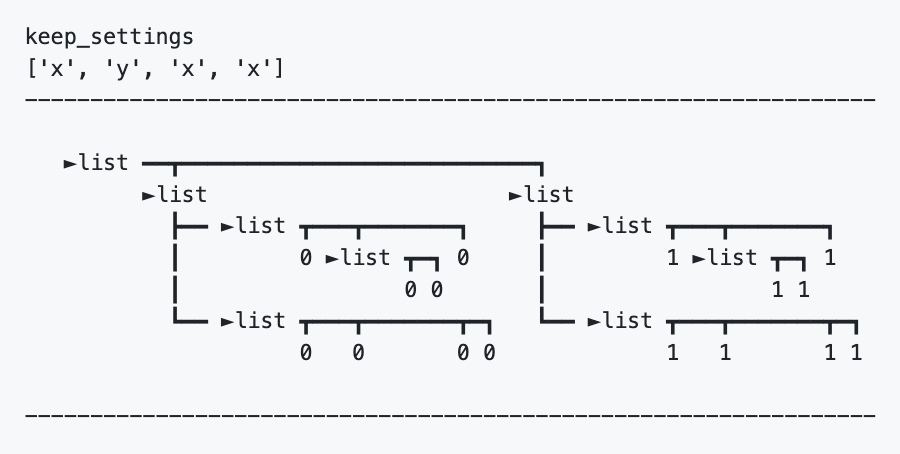
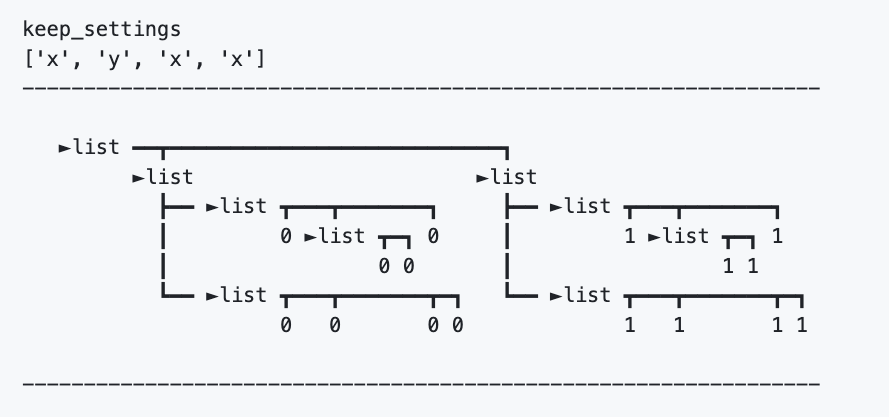
写真に置き換え

diff --git a/pypi_README.md b/pypi_README.md
@@ -350,37 +350,12 @@ keep_settings
     Specifically, this is represented by overlaps along the `X` and `Y` axes.
 
     - ### Test Array
-        ```
-        keep_settings
-        ['x', 'y', 'x', 'x']
-        -----------------------------------------------------------------
 
-           ►list ━━┳━━━━━━━━━━━━━━━━━━━━━━━━━━━┓
-                 ►list                       ►list 
-                   ┣━━ ►list ┳━━━┳━━━━━━━┓     ┣━━ ►list ┳━━━┳━━━━━━━┓
-                   ┃         0 ►list ┳━┓ 0     ┃         1 ►list ┳━┓ 1 
-                   ┃                 0 0       ┃                 1 1 
-                   ┗━━ ►list ┳━━━┳━━━━━━━┳━┓   ┗━━ ►list ┳━━━┳━━━━━━━┳━┓
-                             0   0       0 0             1   1       1 1 
-
-        -----------------------------------------------------------------
-        ```
-
+        ![サンプル画像](Development_files/update_0_3_d/images/demo.png)
 
     - ## X Axis - Matching Array `Order` / Parallel Elements Along the X Axis
-        ```
-                   .     .   .   .   ⌄ ⌄ . .   .     .   .   .   ⌄ ⌄ . .
-                                     ┋ ┋                         ┋ ┋
-           ►list ──┬─────────────────┋─┋───────┐                 ┋ ┋
-                 ►list               ┋ ┋     ►list               ┋ ┋
-                   ├── ►list ┬───┬───┋─┋─┐     ├── ►list ┬───┬───┋─┋─┐
-                   │         0 ►list ┬─┐ 0     │         1 ►list ┬─┐ 1 
-                   │                 0 0       │                 1 1 
-                   └── ►list ┬───┬───┋─┋─┬─┐   └── ►list ┬───┬───┋─┋─┬─┐
-                             0   0   ┋ ┋ 0 0             1   1   ┋ ┋ 1 1 
-                                     X X                         X X
-                                     ^ ^                         ^ ^
-        ```
+
+        ![サンプル画像](Development_files/update_0_3_d/images/x_axis.png)
         
         Values stored in the array are displayed horizontally,<br>
         but to maintain consistency with the `order` of parallel arrays expanded in the `Y` direction,<br>
@@ -390,15 +365,8 @@ keep_settings
 
 
     - ## Y Axis - Matching Array `Dimensions` / Parallel Elements Along the Y Axis
-        ```
-           ►list ──┬───────────────────────────┐
-        .        ►list                       ►list 
-        =          ├── ►list ┬───┬───────┐     ├── ►list ┬───┬───────┐
-        .          │         0 ►list ┬─┐ 0     │         1 ►list ┬─┐ 1 
-        > ┉┉┉┉┉┉┉┉┉┉┉┉┉┉┉┉┉┉ X ┉┉┉┉┉ 0 0 X ┉┉┉┉┉┉┉┉┉┉┉┉┉ X ┉┉┉┉┉ 1 1 X ┉┉┉ <
-        =          └── ►list ┬───┬───────┬─┐   └── ►list ┬───┬───────┬─┐
-        .                    0   0       0 0             1   1       1 1 
-        ```
+        
+        ![サンプル画像](Development_files/update_0_3_d/images/y_axis.png)
         
         Values are displayed vertically according to array dimensions,<br>
         but to maintain consistency with the `dimensions` of parallel arrays expanded in the `X` direction,<br>

diff --git a/README.md b/README.md
@@ -350,8 +350,21 @@ keep_settings
     Specifically, this is represented by overlaps along the `X` and `Y` axes.
 
     - ### Test Array
+        ```
+        keep_settings
+        ['x', 'y', 'x', 'x']
+        -----------------------------------------------------------------
 
-        <!-- ![サンプル画像](Development_files/image/demo.png "y-x-y-yf--yf") -->
+           ►list ━━┳━━━━━━━━━━━━━━━━━━━━━━━━━━━┓
+                 ►list                       ►list 
+                   ┣━━ ►list ┳━━━┳━━━━━━━┓     ┣━━ ►list ┳━━━┳━━━━━━━┓
+                   ┃         0 ►list ┳━┓ 0     ┃         1 ►list ┳━┓ 1 
+                   ┃                 0 0       ┃                 1 1 
+                   ┗━━ ►list ┳━━━┳━━━━━━━┳━┓   ┗━━ ►list ┳━━━┳━━━━━━━┳━┓
+                             0   0       0 0             1   1       1 1 
+
+        -----------------------------------------------------------------
+        ```
 
 
     - ## X Axis - Matching Array `Order` / Parallel Elements Along the X Axis
